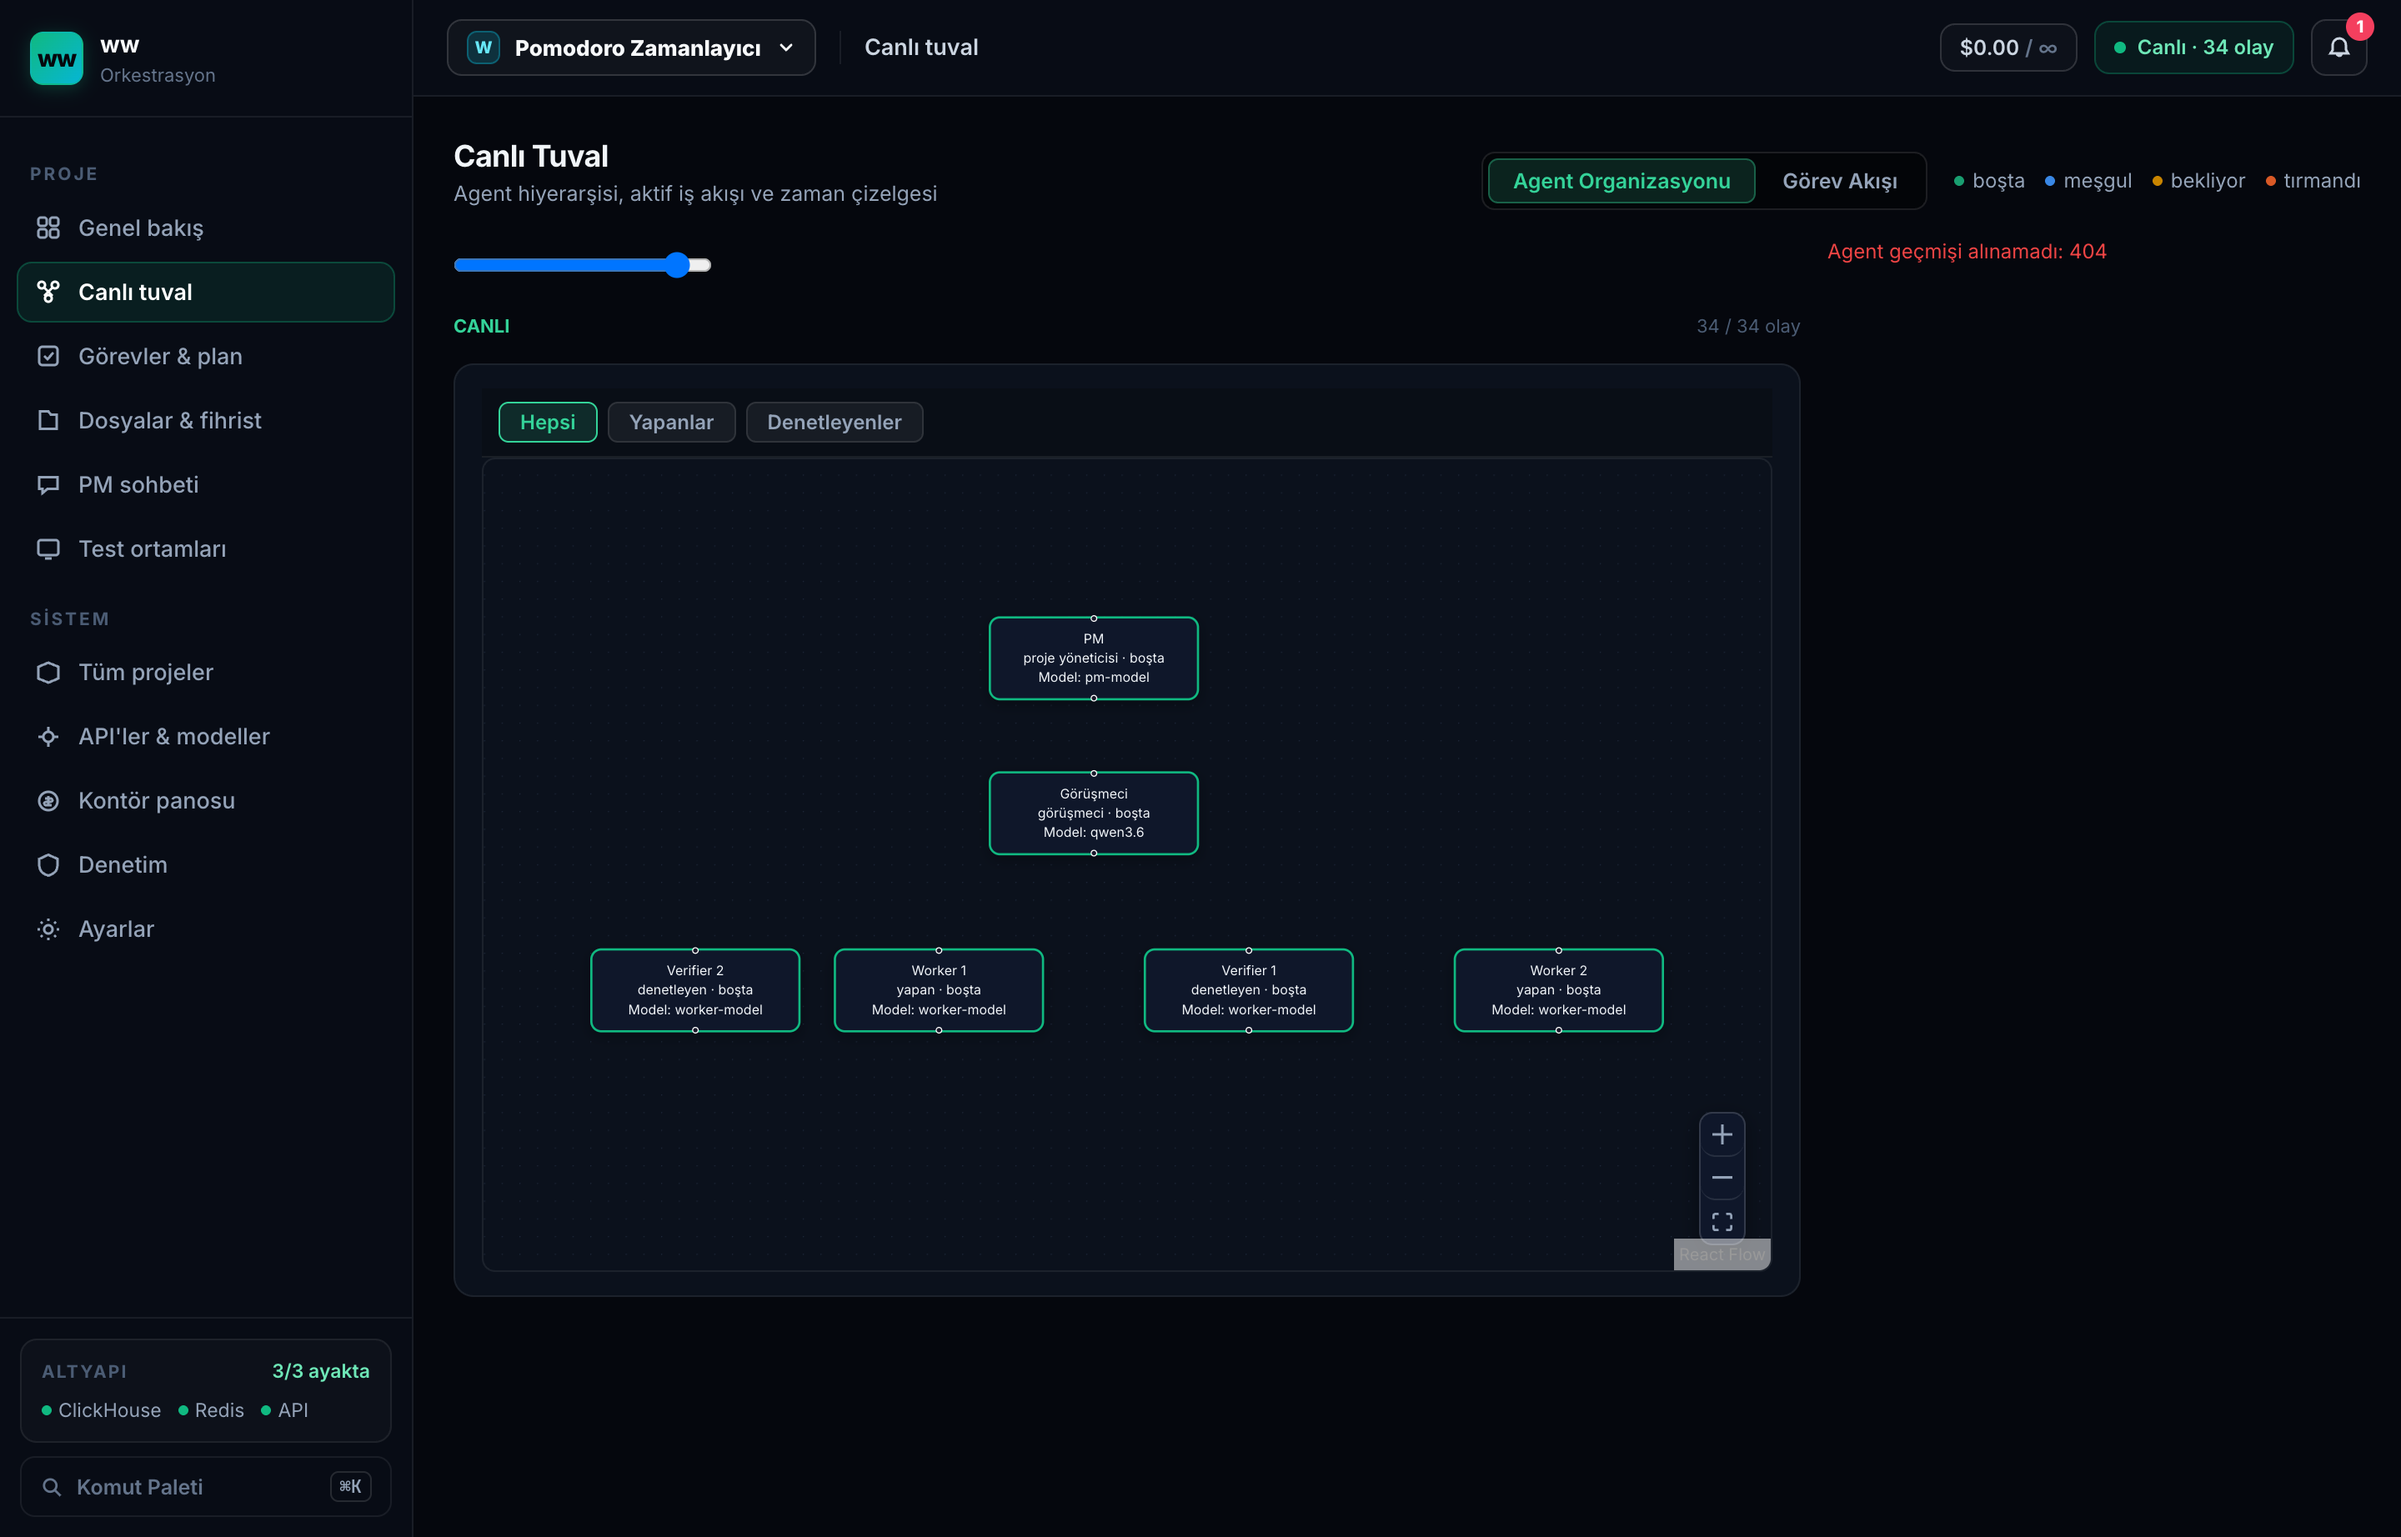
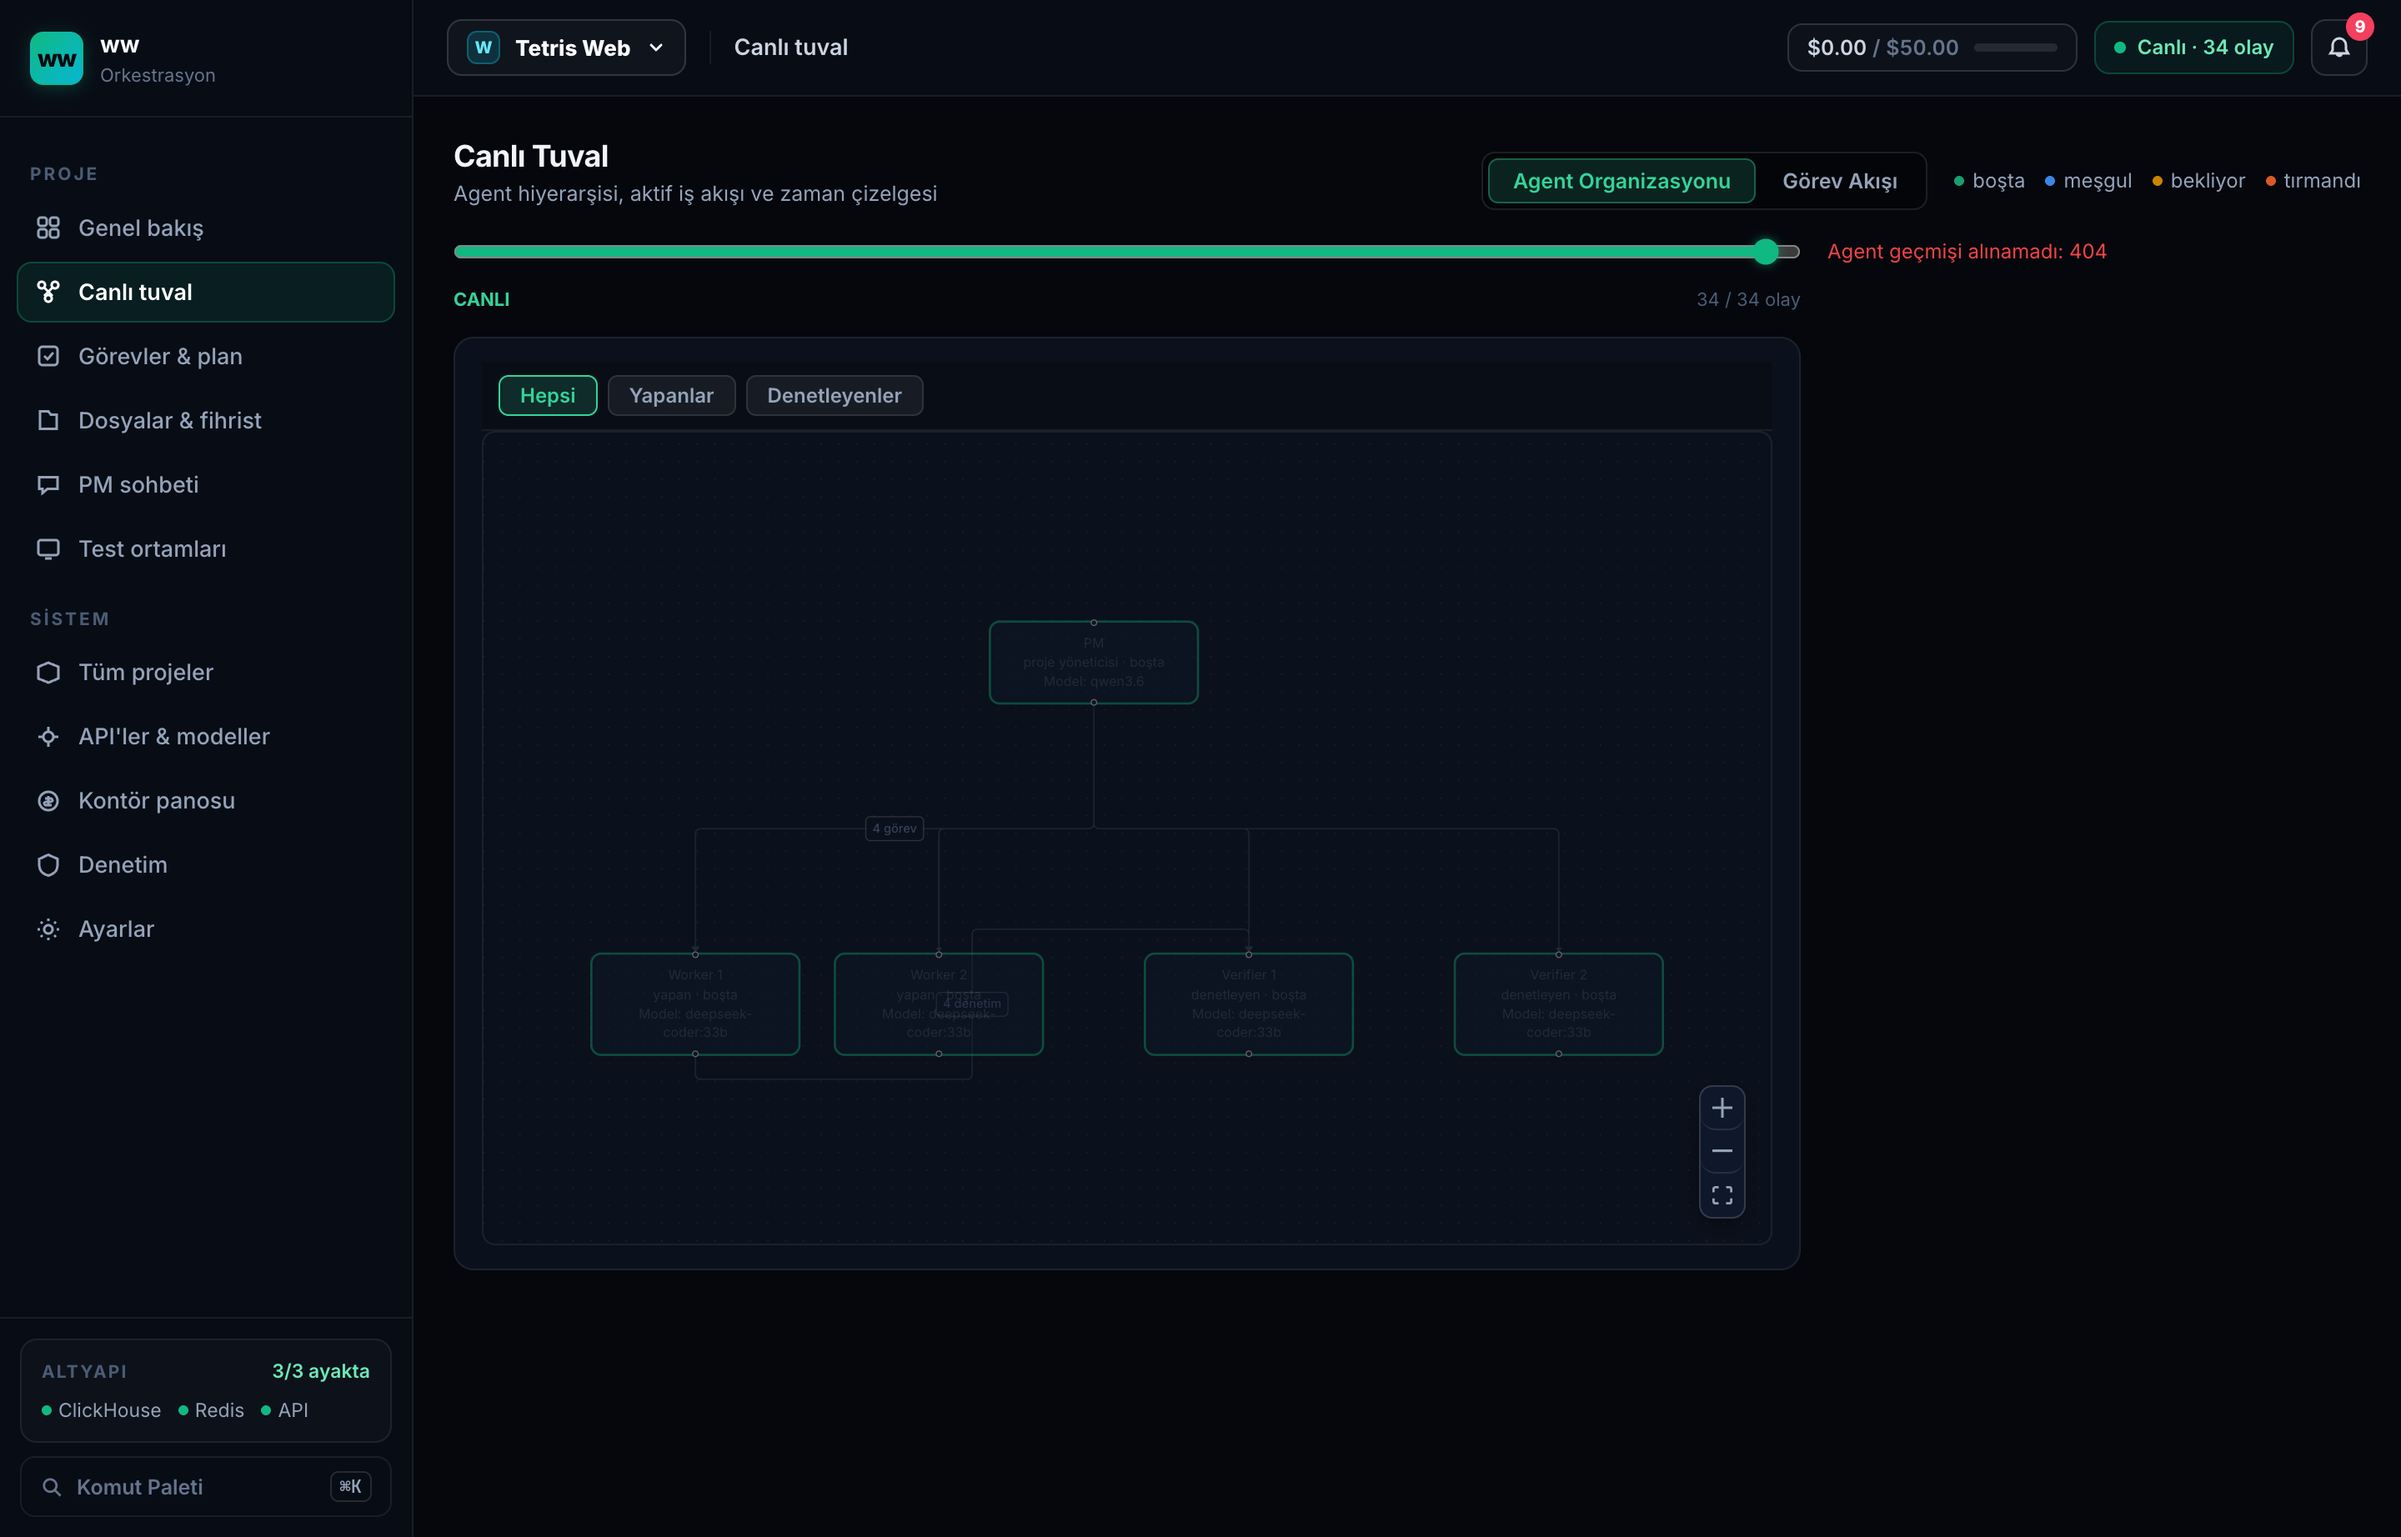
canvas: agent history 404 ucu eklendi, gercek model referanslari baglandi, hiyerarsi oklari gorunur yapildi, slider accent-color ve filigran duzeltildi
- 1 (Agent Geçmişi 404): Server CanvasController icine GET /projects/:projectId/agents/:agentId eklendi, sag ray 404 hatasi giderildi
- 2 (Gercek Model Adlari): 'pm-model' / 'worker-model' kaldirildi; role_models tablosundaki gercek modeller (qwen3.6, deepseek-coder:33b) okunuyor
- 3 (Hiyerarsi Oklari): PM ile alt agent'lar arasinda hierarchy ok baglantisi (smoothstep) eklendi ve cizildi
- 4 (Zaman Cizelgesi Slider): accent-color: #10b981 ve koyu tema track/thumb stilleri baglandi
- 5 (React Flow Filigrani): proOptions={{ hideAttribution: true }} ile kaldirildi
- B1 Sure: status_changed_at/updated_at/created_at ile gercek gecen sure baglandi
- 1079 test TAMAMI YESIL

diff --git a/apps/server/src/canvas.controller.ts b/apps/server/src/canvas.controller.ts
@@ -2,19 +2,19 @@
 //
 // Bu uç dokümanda ADIYLA tanımlıydı ama hiç yazılmamıştı; panel tuvali
 // agent'ları değil görevleri çiziyordu.
-import { BadRequestException, Controller, Get, Inject, Param, Req } from '@nestjs/common';
-import { checkHeartbeat, listLatestAgents, listLatestTasks } from '@ww/db';
+import { BadRequestException, NotFoundException, Controller, Get, Inject, Param, Req } from '@nestjs/common';
+import { checkHeartbeat, listLatestAgents, listLatestRoleModels, listLatestTasks, listRecentMessages } from '@ww/db';
 import { EntityIdSchema, type EntityId } from '@ww/shared';
 import { parseLocalSession, type LocalSessionRequest } from './auth/local-session.js';
 import { buildCanvasProjection } from './canvas-projection.js';
 import { loadRoutingIndex } from './routing.loader.js';
 import { SERVER_DATABASE, type ServerDatabase } from './orchestration.module.js';
 
-@Controller('projects/:projectId/canvas')
+@Controller('projects/:projectId')
 export class CanvasController {
   constructor(@Inject(SERVER_DATABASE) private readonly database: ServerDatabase) {}
 
-  @Get()
+  @Get('canvas')
   async canvas(@Req() request: LocalSessionRequest, @Param('projectId') projectId: string) {
     parseLocalSession(request);
     const id = EntityIdSchema.safeParse(projectId);
@@ -24,9 +24,6 @@ export class CanvasController {
       listLatestTasks(this.database.ch, projectId),
     ]);
 
-    // Kaydedilmiş durum tek başına yalan söyleyebilir: süreç ölünce satır
-    // 'busy' kalır. Canlılık işareti Redis'ten okunur; Redis yoksa kimse
-    // "yanıt vermiyor" işaretlenmez (bilgi yoksa suçlamayız).
     const redis = this.database.redis;
     let live: Set<string> | undefined;
     if (redis !== undefined) {
@@ -36,11 +33,84 @@ export class CanvasController {
       }
     }
 
-    // Etkin model rol eşlemesinden gelir; agent satırındaki `model_ref`
-    // yalnızca eşleme yokken doğrudur (çağrılar da bu sırayla yönlenir).
-    const routing = await loadRoutingIndex(this.database.ch);
+    const roleModels = await listLatestRoleModels(this.database.ch);
+    const roleModelMap = new Map(roleModels.map((r) => [r.role, r.model_ref]));
     return buildCanvasProjection(
-      agents as never, tasks as never, live, (role) => routing.modelForRole(role),
+      agents as never, tasks as never, live, (role) => roleModelMap.get(role),
     );
+  }
+
+  /** docs/08: Düğüme tıklandığında sağ panelde agent geçmişini gösteren uç */
+  @Get('agents/:agentId')
+  async agentDetail(
+    @Req() request: LocalSessionRequest,
+    @Param('projectId') projectId: string,
+    @Param('agentId') agentId: string,
+  ) {
+    parseLocalSession(request);
+    const pId = EntityIdSchema.safeParse(projectId);
+    if (!pId.success) throw new BadRequestException('geçersiz proje kimliği');
+    const aId = EntityIdSchema.safeParse(agentId);
+    if (!aId.success) throw new BadRequestException('geçersiz agent kimliği');
+
+    const [agents, tasks, messages] = await Promise.all([
+      listLatestAgents(this.database.ch, projectId as EntityId),
+      listLatestTasks(this.database.ch, projectId),
+      listRecentMessages(this.database.ch, projectId as EntityId, 1000).catch(() => []),
+    ]);
+
+    const agent = agents.find((a) => a.agent_id === agentId);
+    if (!agent) {
+      throw new NotFoundException(`Agent bulunamadı: ${agentId}`);
+    }
+
+    const routing = await loadRoutingIndex(this.database.ch);
+    const effectiveModel = routing.modelForRole(agent.role) ?? agent.model_ref;
+
+    // Agent ile ilişkili görevler
+    const agentTasks: Array<{
+      taskId: string;
+      title: string;
+      status: string;
+      relation: 'issuer' | 'worker' | 'verifier';
+    }> = [];
+
+    let tasksDone = 0;
+    let tasksRejected = 0;
+
+    for (const t of tasks) {
+      if (t.worker_agent_id === agentId) {
+        agentTasks.push({ taskId: t.task_id, title: t.title, status: t.status, relation: 'worker' });
+        if (t.status === 'done') tasksDone++;
+        if (t.status === 'rejected') tasksRejected++;
+      } else if (t.verifier_agent_id === agentId) {
+        agentTasks.push({ taskId: t.task_id, title: t.title, status: t.status, relation: 'verifier' });
+      } else if (t.issuer_agent_id === agentId) {
+        agentTasks.push({ taskId: t.task_id, title: t.title, status: t.status, relation: 'issuer' });
+      }
+    }
+
+    // Mesaj sayısı
+    const agentMessages = messages.filter((m) => {
+      const from = m.protocolVersion === 1 ? m.envelope.senderPrincipalId : m.fromId;
+      return from === agentId;
+    });
+
+    return {
+      agentId: agent.agent_id,
+      name: agent.name || agent.role,
+      role: agent.role,
+      group: agent.group,
+      modelRef: effectiveModel,
+      status: agent.status,
+      tasksDone,
+      tasksRejected,
+      tasks: agentTasks,
+      messageCount: agentMessages.length,
+      promptTokens: 0,
+      completionTokens: 0,
+      costUsd: 0,
+      calls: 0,
+    };
   }
 }

diff --git a/apps/panel/src/components/AgentCanvas.tsx b/apps/panel/src/components/AgentCanvas.tsx
@@ -24,10 +24,10 @@ const STATUS_COLOR: Record<string, string> = {
 
 // B3 — Ok türü renk ve kalınlıkları
 const EDGE_STYLE: Record<string, { stroke: string; strokeWidth: number }> = {
-  hierarchy: { stroke: "#64748b", strokeWidth: 1.5 },
-  assignment: { stroke: "#34d399", strokeWidth: 2 },
-  verification: { stroke: "#f59e0b", strokeWidth: 2 },
-  clone: { stroke: "#a855f7", strokeWidth: 1.5 },
+  hierarchy: { stroke: "#94a3b8", strokeWidth: 1.8 },
+  assignment: { stroke: "#34d399", strokeWidth: 2.5 },
+  verification: { stroke: "#f59e0b", strokeWidth: 2.5 },
+  clone: { stroke: "#a855f7", strokeWidth: 1.8 },
 };
 
 /** Geçen süreyi okunabilir kısa metne çevirir (ör. "3 dk 12 sn"). */
@@ -40,16 +40,17 @@ function formatElapsed(sec: number | undefined): string {
 }
 
 /** Model referansından kısa model adı çıkar (ör. "ollama:qwen3.6:latest" → "qwen3.6"). */
-function cleanModelName(modelRef: string | undefined, role: string): string {
-  if (!modelRef || modelRef === "unknown") return "—";
+function cleanModelName(modelRef: string | undefined): string {
+  if (!modelRef || modelRef === "" || modelRef === "unknown") return "model bilinmiyor";
   const parts = modelRef.split(":");
-  // ollama:NAME:tag veya provider:NAME → NAME
   if (parts.length >= 2) {
-    const raw = parts[1] ?? parts[0];
-    if (raw === role || raw === "mock") return role === "pm" ? "pm-model" : "worker-model";
-    return raw;
+    const name = parts[1] ?? parts[0];
+    if (parts.length >= 3 && parts[2] !== "latest") {
+      return `${name}:${parts[2]}`;
+    }
+    return name;
   }
-  return modelRef.slice(0, 20);
+  return modelRef.slice(0, 24);
 }
 
 /**
@@ -177,7 +178,7 @@ export function AgentCanvas({
     const roleText = agentRoleLabel(node.role);
     const statusText = agentStatusLabel(node.status);
     const elapsedText = formatElapsed(node.elapsedSec);
-    const modelText = cleanModelName(node.modelRef, node.role);
+    const modelText = cleanModelName(node.modelRef);
 
     const line1 = node.label;
     const line2 = `${roleText} · ${statusText}${elapsedText ? ` · ${elapsedText}` : ""}${node.unresponsive ? " · yanıt vermiyor" : ""}`;
@@ -219,12 +220,14 @@ export function AgentCanvas({
     const style = EDGE_STYLE[edge.kind] ?? { stroke: "#64748b", strokeWidth: 1.5 };
     const isDimmed = highlightSet !== undefined
       && !highlightSet.has(edge.source) && !highlightSet.has(edge.target);
+    const showLabel = edge.kind !== "hierarchy" && edge.kind !== "clone";
     return {
       id: edge.id,
       source: edge.source,
       target: edge.target,
+      type: "smoothstep",
       animated: edge.animated,
-      label: edge.label,
+      label: showLabel ? edge.label : undefined,
       style: {
         stroke: isDimmed ? "#1e293b" : style.stroke,
         strokeWidth: isDimmed ? 1 : style.strokeWidth,
@@ -240,13 +243,16 @@ export function AgentCanvas({
         fillOpacity: 0.95,
         rx: 4,
         ry: 4,
-        stroke: "rgba(255, 255, 255, 0.12)",
+        stroke: "rgba(255, 255, 255, 0.14)",
         strokeWidth: 1,
       },
       labelBgPadding: [6, 4] as [number, number],
-      markerEnd: edge.kind === "verification" || edge.kind === "assignment"
-        ? { type: "arrowclosed" as never, color: style.stroke, width: 16, height: 16 }
-        : undefined,
+      markerEnd: {
+        type: "arrowclosed" as never,
+        color: isDimmed ? "#1e293b" : style.stroke,
+        width: edge.kind === "hierarchy" ? 12 : 16,
+        height: edge.kind === "hierarchy" ? 12 : 16,
+      },
     };
   });
 
@@ -264,6 +270,7 @@ export function AgentCanvas({
           edges={edges as never}
           fitView
           fitViewOptions={{ padding: 0.2 }}
+          proOptions={{ hideAttribution: true }}
           onNodeClick={(_event, node) => {
             setSelectedNodeId((prev) => (prev === node.id ? undefined : node.id));
             onSelectAgent?.(node.id);

diff --git a/apps/panel/src/styles.css b/apps/panel/src/styles.css
@@ -3997,3 +3997,44 @@ input:focus, select:focus, textarea:focus {
 .react-flow__edge-text {
   font-family: inherit !important;
 }
+
+/* ──────────────────────────────────────────────────
+   Zaman Çizelgesi Kaydırıcısı (Dark Theme Accent)
+   ────────────────────────────────────────────────── */
+
+.scrubber input[type="range"] {
+  accent-color: #10b981;
+  width: 100%;
+  height: 6px;
+  background: rgba(255, 255, 255, 0.1);
+  border-radius: 4px;
+  outline: none;
+  cursor: pointer;
+}
+
+.scrubber input[type="range"]::-webkit-slider-thumb {
+  -webkit-appearance: none;
+  appearance: none;
+  width: 14px;
+  height: 14px;
+  border-radius: 50%;
+  background: #10b981;
+  border: 2px solid #0f172a;
+  box-shadow: 0 0 6px rgba(16, 185, 129, 0.5);
+  cursor: pointer;
+  transition: transform 0.1s ease;
+}
+
+.scrubber input[type="range"]::-webkit-slider-thumb:hover {
+  transform: scale(1.2);
+}
+
+.scrubber input[type="range"]::-moz-range-thumb {
+  width: 14px;
+  height: 14px;
+  border-radius: 50%;
+  background: #10b981;
+  border: 2px solid #0f172a;
+  box-shadow: 0 0 6px rgba(16, 185, 129, 0.5);
+  cursor: pointer;
+}

diff --git a/apps/server/src/canvas-projection.ts b/apps/server/src/canvas-projection.ts
@@ -173,8 +173,15 @@ export function buildCanvasProjection(
     edges.push(edge);
   };
 
+  const pmAgent = agents.find((a) => a.role === 'pm');
+
   for (const agent of agents) {
-    const parent = concrete(agent.parent_agent_id);
+    let parent = concrete(agent.parent_agent_id);
+    // Açık parent yoksa ve projede PM varsa, PM altındaki tüm agent'ların ebeveynidir
+    if (parent === undefined && pmAgent !== undefined && agent.agent_id !== pmAgent.agent_id) {
+      parent = pmAgent.agent_id;
+    }
+
     if (parent !== undefined) {
       push({
         id: `hierarchy:${parent}:${agent.agent_id}`,
